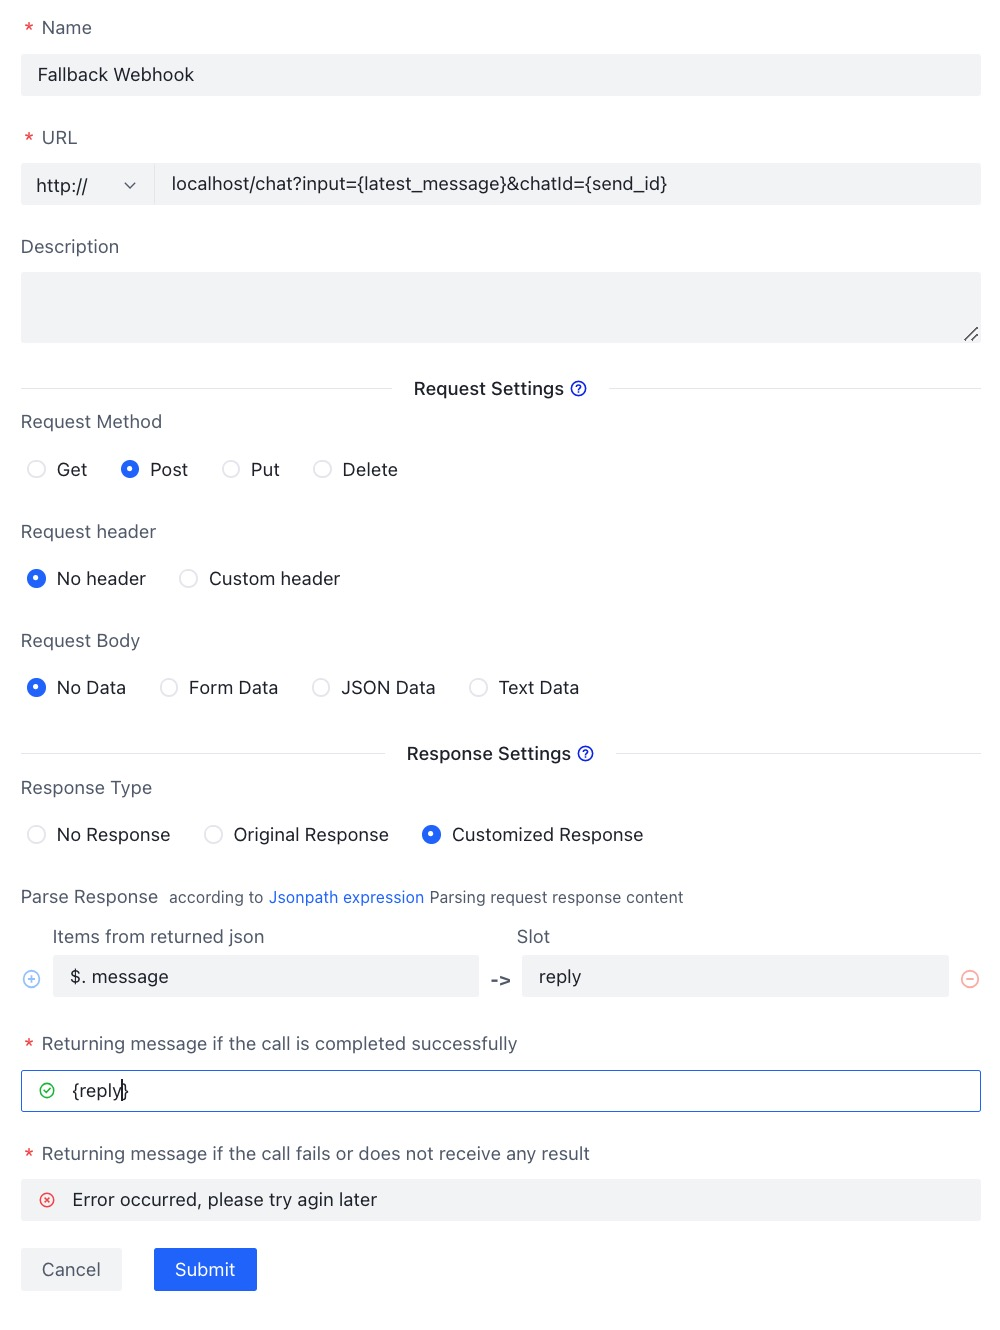
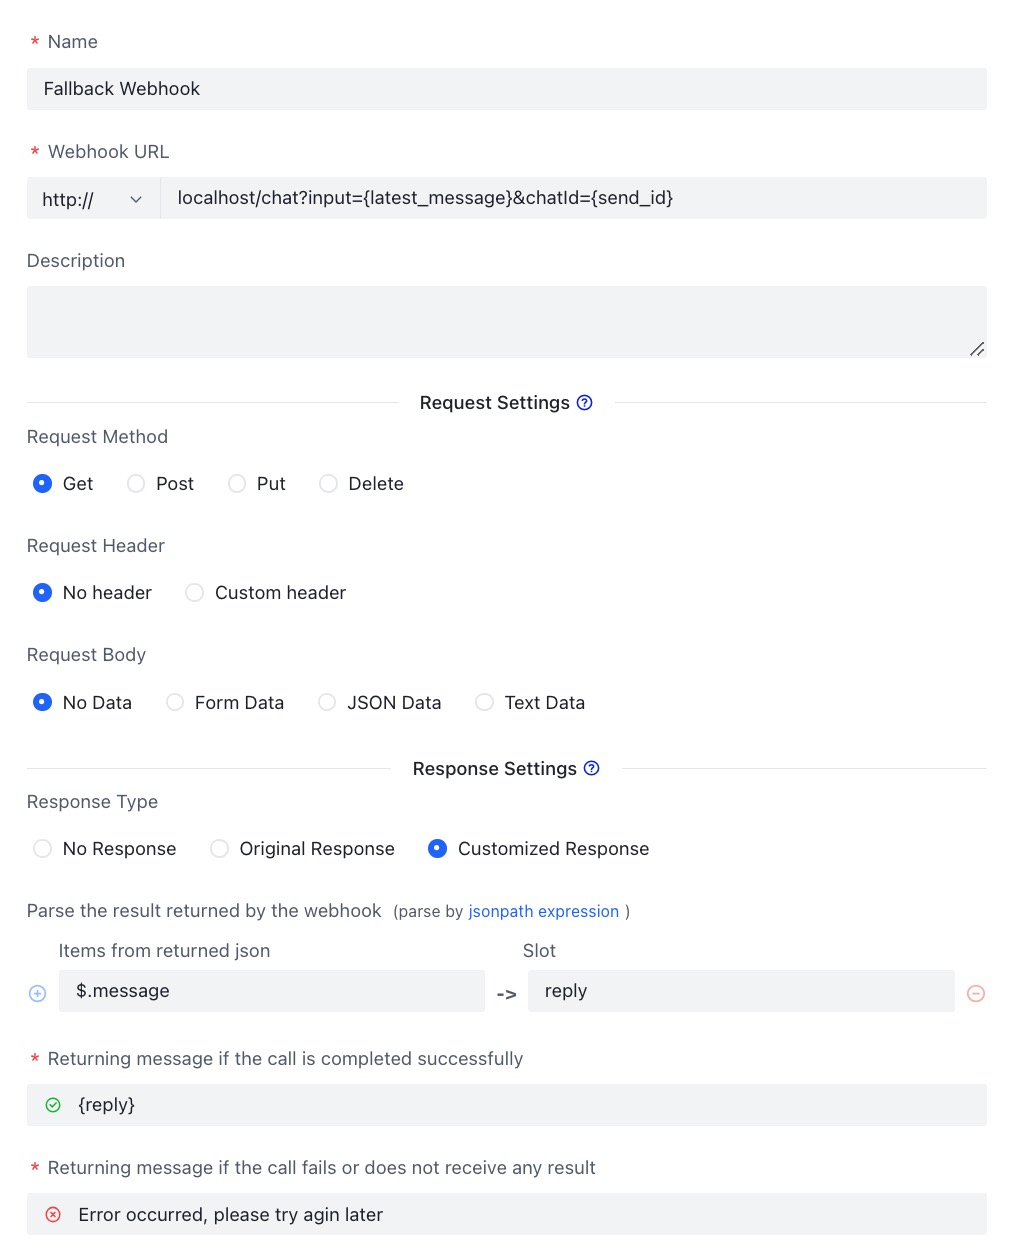
update image of runbot and webhook

diff --git a/docs/run_bots.md b/docs/run_bots.md
@@ -33,7 +33,7 @@ Click `Local Running Environment`-`Manage Agents` on the upper right corner.  It
 
 Or click `Please install your own local agent to test your bot.` [If you can see this notification]
 
-![01-local-running-env.png](/assets/images/local_running_env/01-local-running-env.png)
+![01-local-running-env.png](/assets/images/run_bots_install_agent_2.jpg)
 
 During installation and the following use, please make sure the local machine has network access to the Prompt Dialog service.
 

diff --git a/docs/webhook/02-webhook.md b/docs/webhook/02-webhook.md
@@ -40,8 +40,7 @@ bot  : An order has been successfully placed for you
 after the order information is confirmed by the user, we call a webhook to place the order.
 
 ### Webhook Settings:
-![webhook7.png](/assets/images/webhook_fruit_1.jpg)
-![webhook7.png](/assets/images/webhook_fruit_2.jpg)
+![webhook_fruit.jpg](/assets/images/webhook_fruit.jpg)
 
 ### Handle fallback via Webhook
 Webhook can also be used to handle fallback.  See [Fallback](/docs/webhook/03-webhook).

diff --git a/docs/webhook/03-webhook.md b/docs/webhook/03-webhook.md
@@ -38,8 +38,3 @@ First, we configure the name and request address, and use the built-in slots `{l
 Select "Overview" on the left navigation pane and then click "Fallback" in the diagram. 
 
 ![03-3-webhook.jpg](/assets/images/webhook_falllbak_use.jpg)
-
-### Test
-Respond to user input via a webhook.
-
-![03-4-webhook.jpg](/assets/images/tutorial/webhook/03-4-webhook.jpg)
